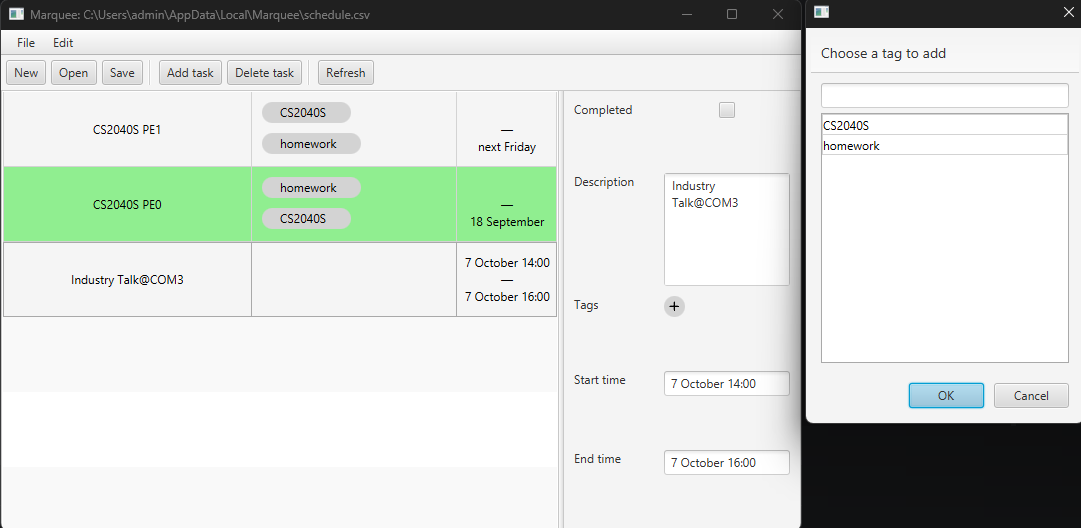
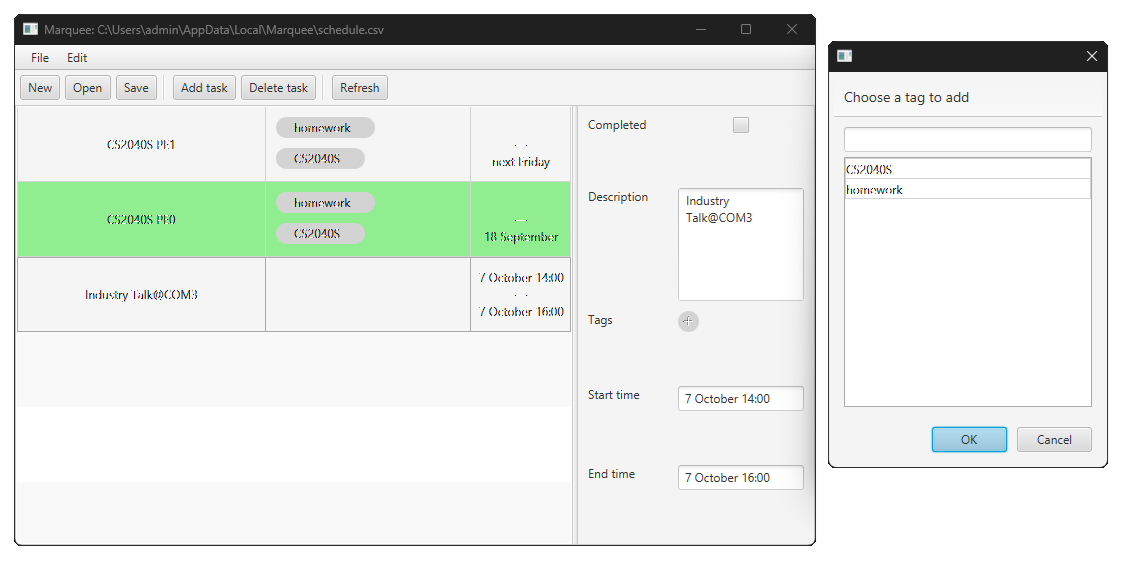
docs: Add part of GUI documentations and images, add website settings in _config.yml

diff --git a/docs/gui.md b/docs/gui.md
@@ -1,0 +1,54 @@
+---
+layout: page
+title: GUI User Guide
+---
+
+- Table of Contents
+  {:toc}
+
+---
+
+Marquee GUI does not use commands, instead a more intuitive graphical interface is used.
+
+### Opening files
+
+To open a save file, either:
+- click on the `Open` button in the ribbon, or
+- click on the `File` menu, then select `Open...`
+
+![Open file positions](images/open-file_1.png)
+
+Then, a file selection pop-up will appear. Choose the save file you want
+to open.
+
+The save file has the extension `.csv` (Comma-Separated Values).
+
+![Open file pop-up](images/open-file_2.png)
+
+Finally, click `Open` in the file selections pop-up. The button location
+and text may differ based on your platform.
+
+### Saving files
+
+To save the current checklist, either:
+- click on the `Save` button in the ribbon, or
+- click on the `File` menu, then select `Save`
+
+![Save file positions](images/save-file_1.png)
+
+This will save the current checklist to the file you opened it from.
+
+If the checklist is newly created, then you will be prompted to choose a
+save location for the new checklist.
+
+Go to the location you want to save the checklist at. Then, choose the name
+of the save file. The `.csv` extension will be automatically added.
+
+![Save file pop-up](images/save-file_2.png)
+
+Finally, click `Save` in the file save pop-up. The button location
+and text may differ based on your platform.
+
+You can manually save the current checklist as a new file by clicking on the `File` menu, then select `Save as...`.
+
+![Save as new file positions](images/save-file_3.png)

diff --git a/docs/cli.md b/docs/cli.md
@@ -1,6 +1,6 @@
 ---
 layout: page
-title: Marquee User Guide - CLI version
+title: CLI User Guide
 ---
 
 - Table of Contents
@@ -8,7 +8,7 @@ title: Marquee User Guide - CLI version
 
 ---
 
-Marquee uses commands to create, manipulate and filter tasks.
+Marquee CLI uses commands to create, manipulate and filter tasks.
 The following lists the available commands in Marquee.
 
 ### 1. `help` command
